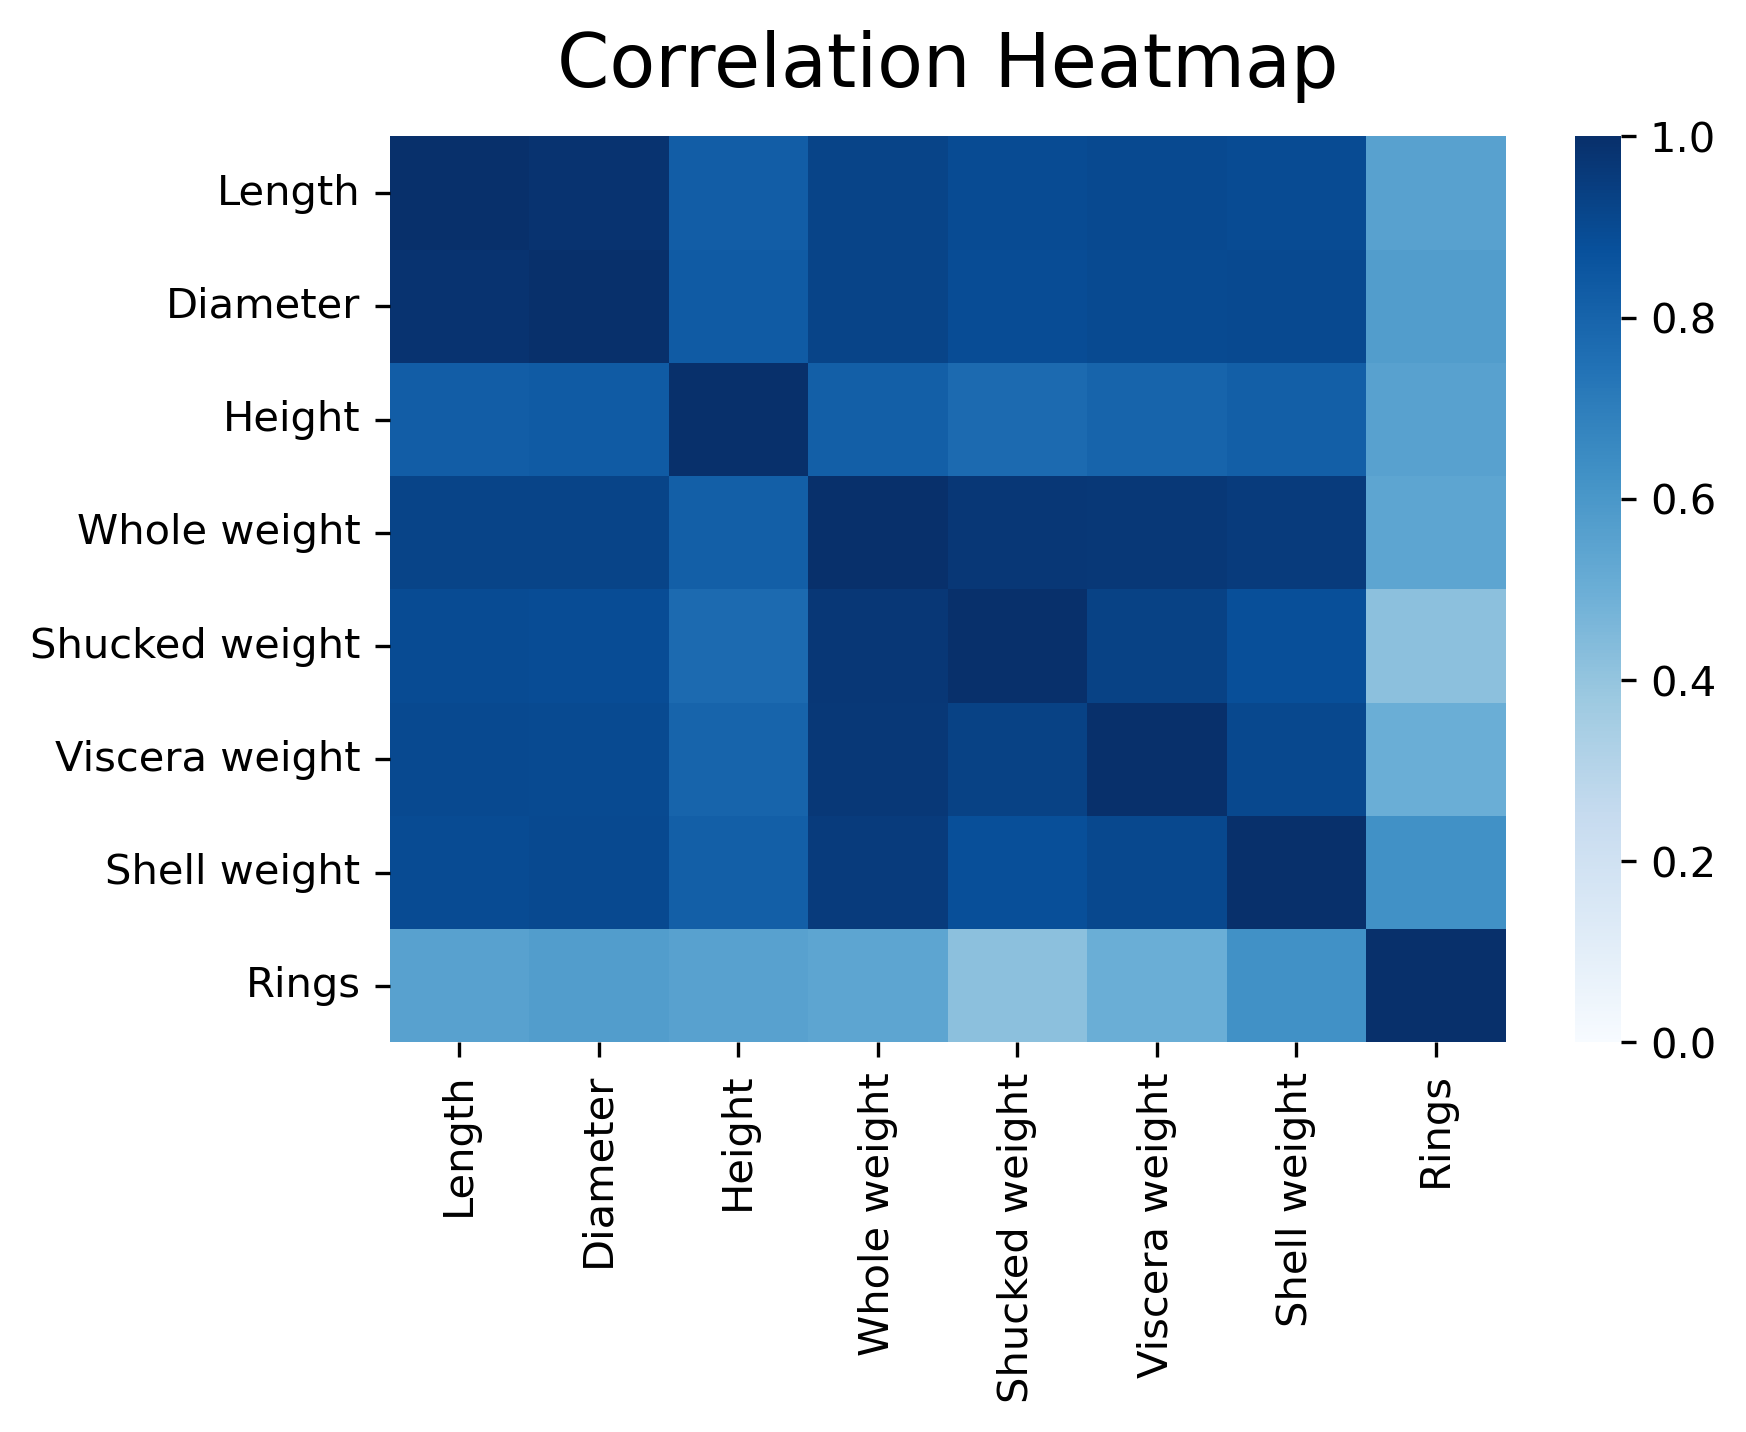
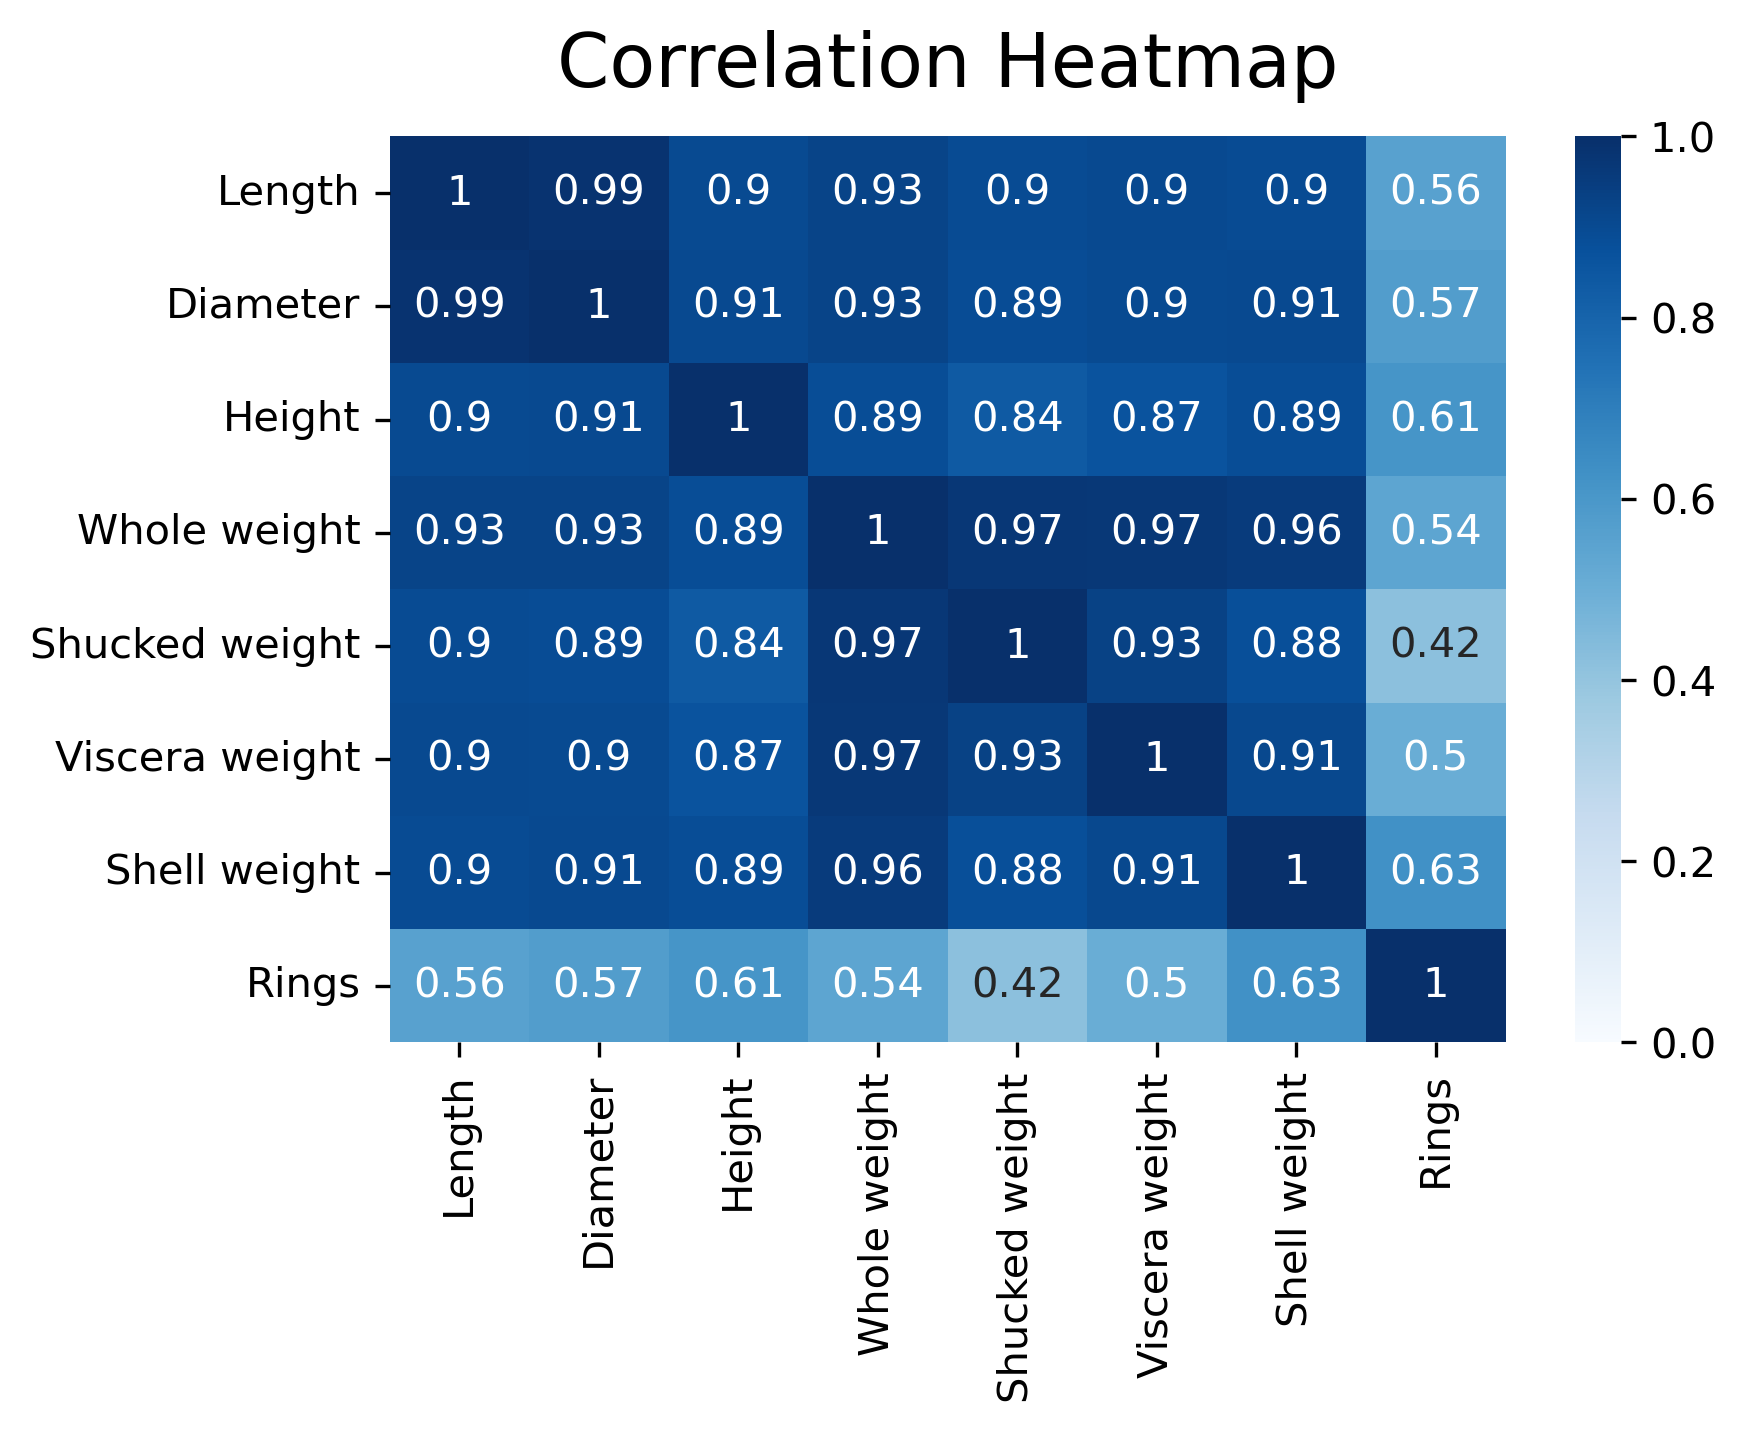
Standardized data

diff --git a/scripts/EDA.py b/scripts/EDA.py
@@ -5,6 +5,8 @@ import pandas as pd
 import numpy as np
 import matplotlib.pyplot as plt
 import seaborn as sns
+from scipy.stats import norm
+from sklearn import preprocessing
 
 # Load data
 
@@ -13,14 +15,53 @@ abalone = pd.read_csv('../data/abalone.csv', header=0)
 abalone.head()
 # abalone.describe()
 
+# %%
+abalone_std = preprocessing.scale(abalone.iloc[:,1:])
+abalone_std = pd.DataFrame(abalone_std, columns=['Length', 'Diameter', 'Height', 'Whole weight', 'Shucked weight',
+       'Viscera weight', 'Shell weight', 'Rings'])
+
+abalone_std.drop(abalone_std[abalone_std.Height > 8].index, inplace=True)
 # Plots
 
 # %%
-pairplot = sns.pairplot(abalone, hue='Sex')
-plt.savefig('../plots/pairplot.png', dpi=300, bbox_inches='tight', transparent = False)
+# pairplot = sns.pairplot(abalone, hue='Sex')
+# pairplot
+for i in range(1, 9):
+    mu, std = norm.fit(np.array(abalone.iloc[:, [i]])) 
+    xmin, xmax = plt.xlim()
+    x = np.linspace(xmin, xmax, 100)
+    p = norm.pdf(x, mu, std)
+    plt.subplot(3,3,i)
+    plt.hist(np.array(abalone.iloc[:, [i]]), bins=30, density=True)
+    plt.plot(x, p, 'k', linewidth=2, c='red')
+
+plt.show()
 
 # %%
-corr_plot = sns.heatmap(abalone.corr(), vmax=1, vmin=0, cmap='Blues')
+mu, std = norm.fit(np.array(abalone.iloc[:, [1]])) 
+xmin, xmax = plt.xlim()
+x = np.linspace(xmin, xmax, 100)
+p = norm.pdf(x, mu, std)
+plt.hist(np.array(abalone.iloc[:, [1]]), bins=30)
+plt.plot(x, p, 'k', linewidth=2)
+
+# abalone.hist(bins=30, figsize=(15, 10))
+# plt.savefig('../plots/pairplot.png', dpi=300, bbox_inches='tight', transparent = False)
+
+# %%
+corr_plot = sns.heatmap(abalone_std.corr(), vmax=1, vmin=0, cmap='Blues', annot=True)
 corr_plot.set_title('Correlation Heatmap', fontdict={'fontsize':18}, pad=12)
 plt.savefig('../plots/heatmap.png', dpi=300, bbox_inches='tight', transparent = False)
+
+# %%
+abalone.corr()
+
+# %%
+np.corrcoef(abalone[:1])
+
+# %%
+cols = range(1, 9) 
+pd.data_frame(np.corrcoef(abalone.values[:, cols].astype(np.float64)))
+
+
 
